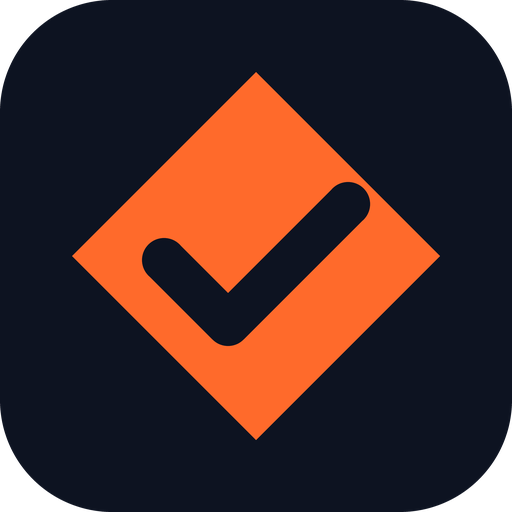
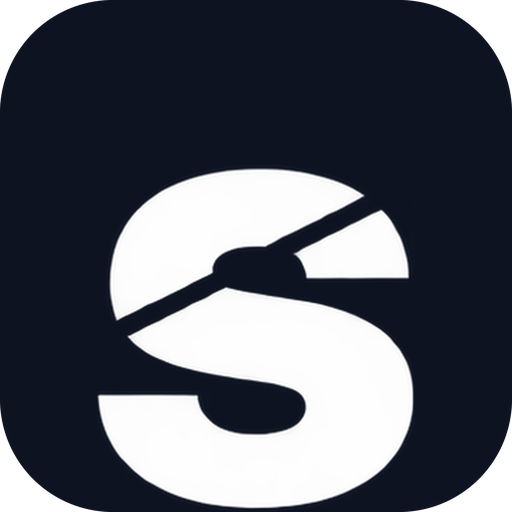
Switch to the cut strathmark wordmark
Graeme's chosen wordmark replaces the diamond mark in the menu and footer
(dark and white versions), and drives the favicon and app icons (the cut
's' on an ink tile), logo.png and the share image. The site orange now
matches the logo's orange.

diff --git a/app/components/Navigation.tsx b/app/components/Navigation.tsx
@@ -1,5 +1,6 @@
 "use client";
 
+import Image from "next/image";
 import Link from "next/link";
 import { ArrowRight, Menu, X } from "lucide-react";
 import { useEffect, useRef, useState } from "react";
@@ -22,24 +23,18 @@ const MOBILE_NAV_ID = "mobile-navigation";
 const FOCUSABLE_SELECTOR =
   'a[href], button:not([disabled]), input:not([disabled]), select:not([disabled]), textarea:not([disabled]), [tabindex]:not([tabindex="-1"])';
 
-export function Wordmark({ inverted = false }: { inverted?: boolean }) {
+// The cut wordmark. Dark on light backgrounds, white (orange kept) on dark ones.
+export function Wordmark({ inverted = false, className = "h-8 w-auto md:h-9" }: { inverted?: boolean; className?: string }) {
   return (
-    <span className="flex items-center gap-2.5">
-      {/* The mark: a waymark diamond carrying a rising tick. Same drawing as public/logo-mark.svg. */}
-      <svg aria-hidden="true" viewBox="0 0 64 64" className="h-9 w-9 shrink-0">
-        <rect width="64" height="64" rx="14" fill={inverted ? "#1d2638" : "#0D1321"} />
-        <path d="M32 9 55 32 32 55 9 32Z" fill="#FF6A2B" />
-        <path d="M20.5 32.5 28.5 40.5 43.5 25.5" fill="none" stroke="#0D1321" strokeWidth="5.5" strokeLinecap="round" strokeLinejoin="round" />
-      </svg>
-      <span
-        className={clsx(
-          "font-display text-[1.35rem] font-extrabold uppercase leading-none tracking-[0.02em] [font-stretch:125%]",
-          inverted ? "text-white" : "text-ink"
-        )}
-      >
-        Strathmark
-      </span>
-    </span>
+    <Image
+      src={inverted ? "/brand/strathmark-wordmark-white.png" : "/brand/strathmark-wordmark.png"}
+      alt="Strathmark"
+      width={1200}
+      height={318}
+      priority={!inverted}
+      sizes="160px"
+      className={className}
+    />
   );
 }
 

diff --git a/app/components/sections/Footer.tsx b/app/components/sections/Footer.tsx
@@ -56,7 +56,7 @@ export function Footer() {
         <div className="mt-16 grid gap-12 lg:grid-cols-[1.1fr_1.9fr] lg:gap-16">
           <div>
             <Link href="/" aria-label="Strathmark home" className="inline-flex min-h-11 items-center">
-              <Wordmark inverted />
+              <Wordmark inverted className="h-10 w-auto" />
             </Link>
             <p className="mt-6 max-w-sm text-base leading-7">
               Websites, SEO and Google Ads from Graeme. Based in Edinburgh, working across Scotland and the UK.

diff --git a/app/globals.css b/app/globals.css
@@ -9,7 +9,7 @@
   --color-ink: #0d1321;
   --color-ink-2: #3b4456;
   --color-ink-3: #5b6577;
-  --color-signal: #ff6a2b;
+  --color-signal: #fd6a1a;
   --color-signal-ink: #b8441a;
   --color-signal-soft: #ffe5d9;
   --color-sky: #9db4d6;
